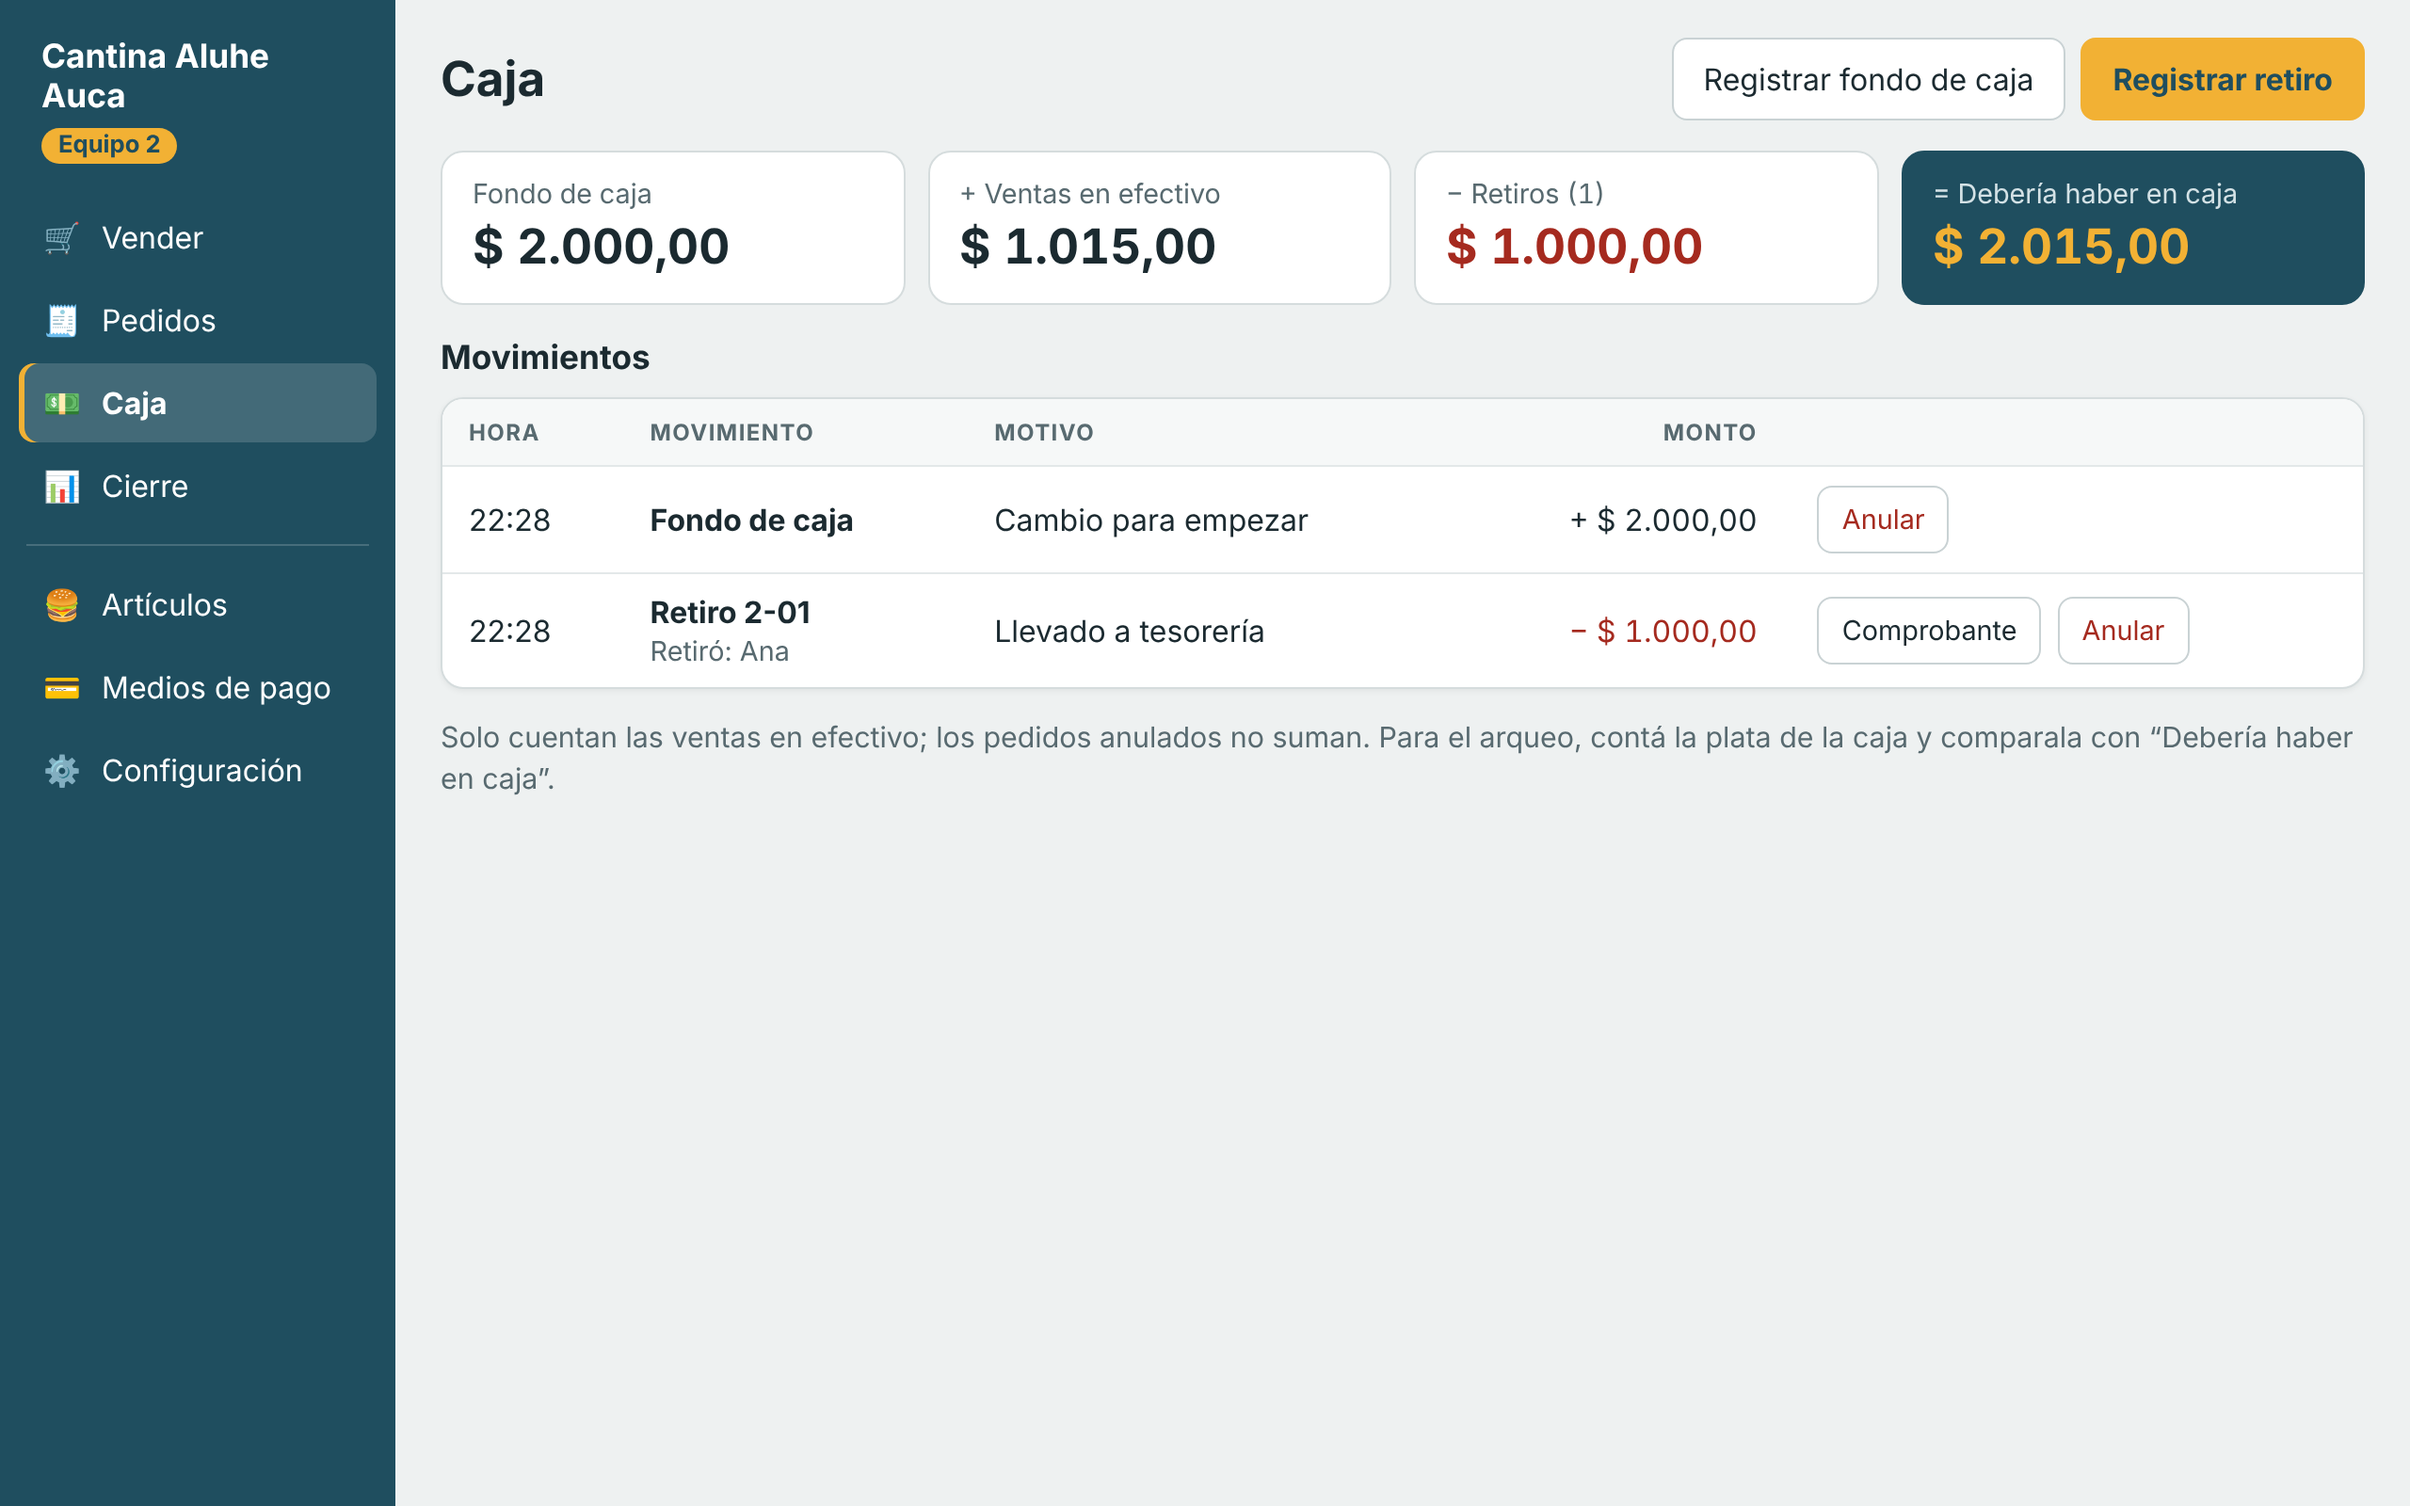
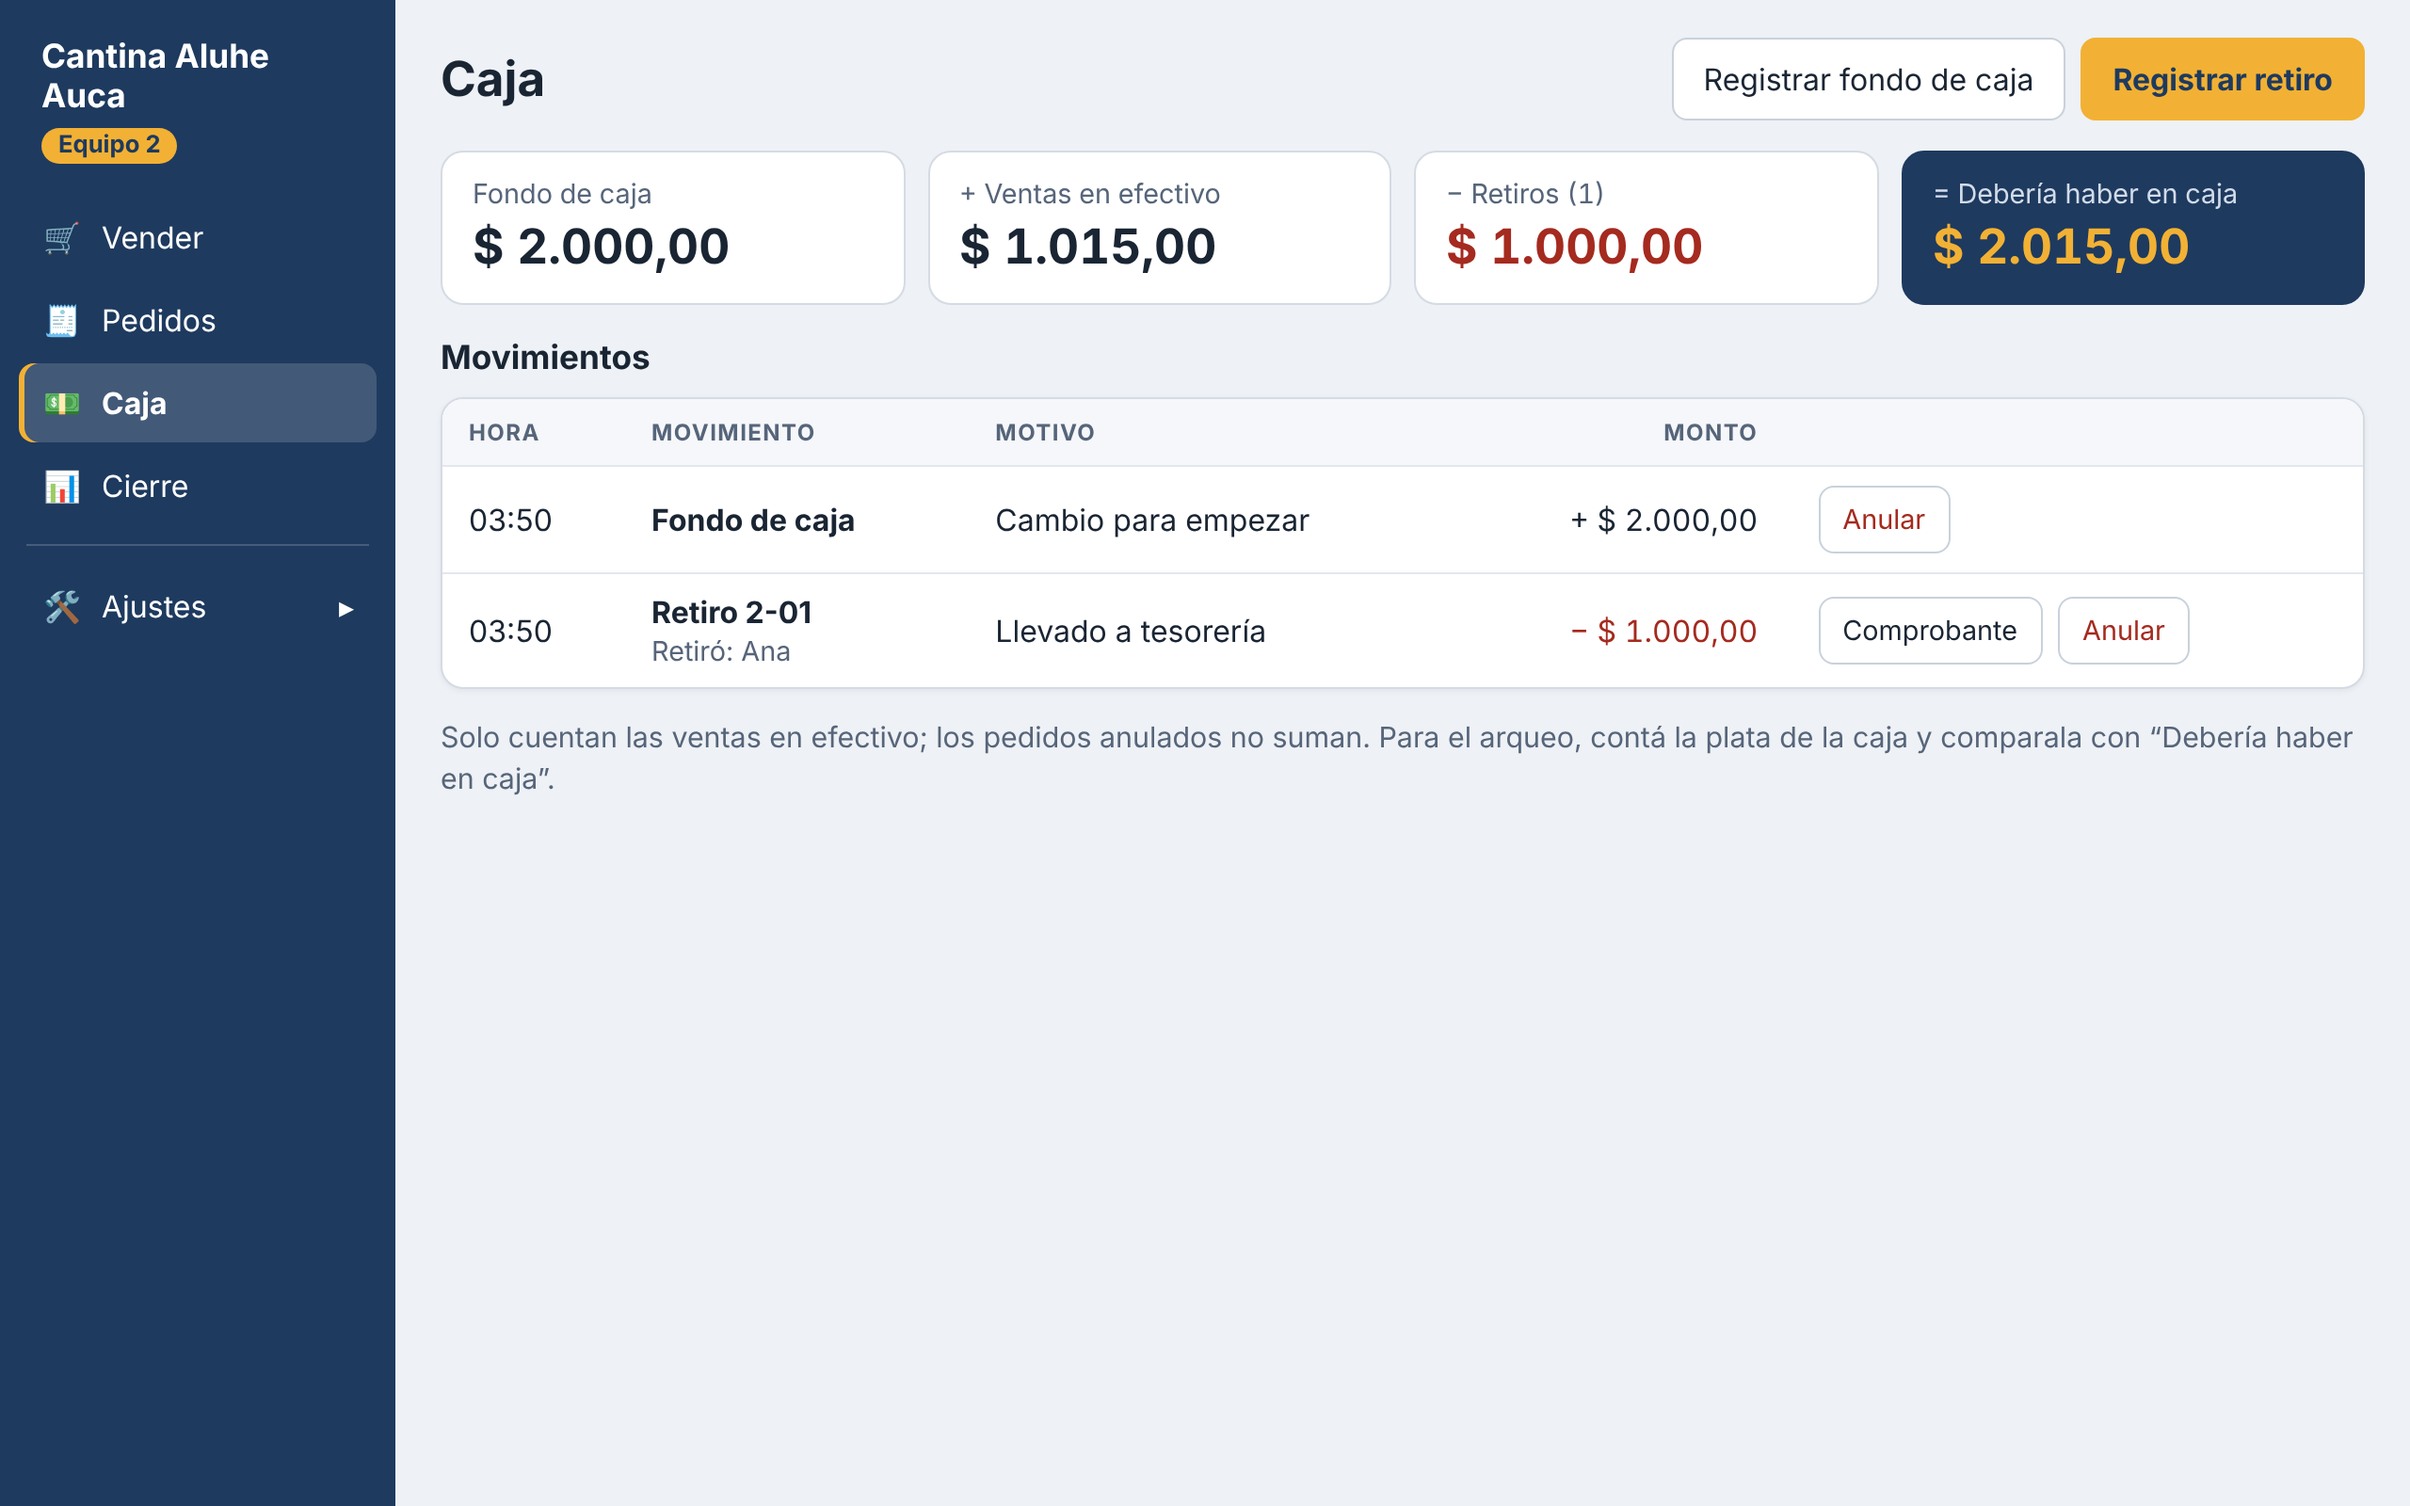
Menú de ajustes desplegable y color azul marino
- Artículos, Medios de pago y Configuración pasan a un desplegable "Ajustes"
  en el menú; se abre solo si se está en uno de ellos o falta configurar.
- El azul petróleo pasa a azul marino apenas más claro (#1e3a5f), con los
  grises ajustados al nuevo tono.
- Capturas de docs/ regeneradas; esquema y README con la pestaña
  Exportaciones en diseño.

Claude-Session: https://claude.ai/code/session_01EDYfUY5TWbhxzJ8hoEjXV3

diff --git a/css/estilos.css b/css/estilos.css
@@ -2,12 +2,12 @@
    Botones grandes para usar con el dedo. Colores del Grupo Scout Aluhe Auca. */
 
 :root {
-	--fondo: #eef1f1;
+	--fondo: #eef1f5;
 	--superficie: #ffffff;
-	--texto: #1b2a30;
-	--suave: #586a70;
-	--borde: #d5dcdd;
-	--marca: #1f4e5f;          /* azul petróleo del grupo */
+	--texto: #1a2533;
+	--suave: #56657a;
+	--borde: #d5dbe4;
+	--marca: #1e3a5f;          /* azul marino del grupo, apenas más claro */
 	--marca-texto: #ffffff;
 	--acento: #f2b134;         /* amarillo del grupo */
 	--acento-suave: #fff6df;
@@ -90,6 +90,25 @@ body { display: flex; flex-direction: column; overflow: hidden; }
 .menu .icono { width: 22px; text-align: center; }
 .menu hr { border: 0; border-top: 1px solid rgba(255, 255, 255, .18); margin: 8px 4px; }
 
+/* Desplegable de Ajustes (artículos, medios de pago, configuración) */
+.menu .ajustes summary {
+	display: flex;
+	align-items: center;
+	gap: 10px;
+	padding: 11px 12px;
+	border-radius: 8px;
+	cursor: pointer;
+	list-style: none;
+	min-height: 44px;
+}
+.menu .ajustes summary::-webkit-details-marker { display: none; }
+.menu .ajustes summary::after { content: "▸"; margin-left: auto; transition: transform .15s; }
+.menu .ajustes[open] summary::after { transform: rotate(90deg); }
+.menu .ajustes summary:hover { background: rgba(255, 255, 255, .08); }
+.menu .ajustes summary:focus-visible { outline: 3px solid var(--acento); outline-offset: 2px; }
+.menu .ajustes a { padding-left: 24px; font-size: .95rem; }
+@media (prefers-reduced-motion: reduce) { .menu .ajustes summary::after { transition: none; } }
+
 /* ----------------------------------------------------------- Contenido */
 
 .contenido { overflow-y: auto; padding: 20px 24px 40px; }
@@ -136,7 +155,7 @@ body { display: flex; flex-direction: column; overflow: hidden; }
 .ayuda { color: var(--suave); font-size: .95rem; line-height: 1.45; max-width: 1100px; }
 .sin-margen { margin: 0; }
 
-.lista { margin: 0; padding-left: 20px; display: grid; gap: 6px; color: #3b4d53; line-height: 1.4; }
+.lista { margin: 0; padding-left: 20px; display: grid; gap: 6px; color: #3a4a5e; line-height: 1.4; }
 
 /* ------------------------------------------------------------- Botones */
 
@@ -145,7 +164,7 @@ button {
 	min-height: 44px;
 	padding: 8px 16px;
 	border-radius: 8px;
-	border: 1px solid #c9d2d4;
+	border: 1px solid #c9d1dc;
 	background: var(--superficie);
 	color: var(--texto);
 	cursor: pointer;
@@ -208,7 +227,7 @@ input, select {
 	font: inherit;
 	min-height: 44px;
 	padding: 8px 12px;
-	border: 1px solid #c9d2d4;
+	border: 1px solid #c9d1dc;
 	border-radius: 8px;
 	background: #fff;
 	color: var(--texto);
@@ -220,13 +239,13 @@ input:focus, select:focus { outline: 2px solid var(--marca); outline-offset: 1px
 /* -------------------------------------------------------------- Tablas */
 
 .tabla { width: 100%; border-collapse: collapse; }
-.tabla th, .tabla td { padding: 10px 14px; text-align: left; border-bottom: 1px solid #e3e8e9; }
-.tabla th { font-size: .75rem; text-transform: uppercase; letter-spacing: .06em; color: var(--suave); background: #f6f8f8; }
+.tabla th, .tabla td { padding: 10px 14px; text-align: left; border-bottom: 1px solid #e3e7ee; }
+.tabla th { font-size: .75rem; text-transform: uppercase; letter-spacing: .06em; color: var(--suave); background: #f6f7fa; }
 .tabla tr:last-child td { border-bottom: 0; }
 .tabla .num { text-align: right; font-variant-numeric: tabular-nums; white-space: nowrap; }
 .tabla .negativo { color: var(--peligro); }
-.tabla .fila-grupo td { background: #f2f5f5; font-weight: 700; color: var(--marca); padding-top: 8px; padding-bottom: 8px; }
-.tabla tr.inactivo td:not(.botones-fila) { color: #7a8a8f; }
+.tabla .fila-grupo td { background: #f1f4f8; font-weight: 700; color: var(--marca); padding-top: 8px; padding-bottom: 8px; }
+.tabla tr.inactivo td:not(.botones-fila) { color: #7a8799; }
 .botones-fila { text-align: right; white-space: nowrap; }
 .botones-fila button { min-height: 36px; padding: 4px 12px; margin-left: 4px; font-size: .9rem; }
 
@@ -235,7 +254,7 @@ input:focus, select:focus { outline: 2px solid var(--marca); outline-offset: 1px
 	font-size: .75rem;
 	padding: 1px 8px;
 	border-radius: 99px;
-	background: #e3e8e9;
+	background: #e3e7ee;
 	color: var(--suave);
 	font-weight: 700;
 	vertical-align: middle;
@@ -331,7 +350,7 @@ button.articulo {
 	touch-action: manipulation;
 }
 button.articulo b { font-size: 1.05rem; line-height: 1.2; padding-right: 28px; }
-button.articulo span { color: #3b4d53; }
+button.articulo span { color: #3a4a5e; }
 button.articulo:active { transform: scale(.98); }
 button.articulo.en-pedido { border: 2px solid var(--acento); background: var(--acento-suave); }
 .contador {
@@ -365,7 +384,7 @@ button.articulo.en-pedido { border: 2px solid var(--acento); background: var(--a
 .numero { color: var(--texto); font-variant-numeric: tabular-nums; }
 
 .lineas { flex: 1; overflow-y: auto; min-height: 0; }
-.linea { border-bottom: 1px solid #e3e8e9; padding: 10px 0; display: flex; flex-direction: column; gap: 8px; }
+.linea { border-bottom: 1px solid #e3e7ee; padding: 10px 0; display: flex; flex-direction: column; gap: 8px; }
 .linea-arriba { display: flex; justify-content: space-between; gap: 8px; }
 .monto { font-variant-numeric: tabular-nums; white-space: nowrap; }
 .linea-controles { display: flex; align-items: center; gap: 8px; flex-wrap: wrap; }
@@ -391,7 +410,7 @@ button.cobrar { flex: 2; min-height: 60px; font-size: 1.25rem; }
 button.medio { min-height: 64px; text-align: left; display: flex; flex-direction: column; gap: 2px; font-weight: 700; font-size: 1.05rem; border-radius: 10px; }
 button.medio span { font-weight: 400; font-size: .8rem; color: var(--suave); }
 button.medio.elegido { background: var(--marca); border-color: var(--marca); color: #fff; }
-button.medio.elegido span { color: #d4e2e6; }
+button.medio.elegido span { color: #d3dcea; }
 .zona-efectivo { display: grid; grid-template-columns: 1fr 1fr; gap: 14px 16px; align-items: end; margin-top: 18px; }
 .zona-efectivo input { font-size: 1.5rem; min-height: 52px; border: 2px solid var(--marca); font-variant-numeric: tabular-nums; }
 .vuelto { background: #e6f2e7; border-radius: 10px; padding: 10px 16px; display: flex; flex-direction: column; }
@@ -424,7 +443,7 @@ button.medio.elegido span { color: #d4e2e6; }
 	line-height: 1.5;
 	color: #111;
 	box-shadow: 0 2px 10px rgba(0, 0, 0, .14);
-	border: 1px solid #e3e8e9;
+	border: 1px solid #e3e7ee;
 }
 .papel .fila { display: flex; justify-content: space-between; gap: 10px; }
 .papel .negrita { font-weight: 700; }
@@ -442,7 +461,7 @@ button.medio.elegido span { color: #d4e2e6; }
 
 /* -------------------------------------------------------------- Pedidos */
 
-.tabla tr.anulado td { color: #7a8a8f; }
+.tabla tr.anulado td { color: #7a8799; }
 .tabla tr.anulado .tachable { text-decoration: line-through; }
 .etiqueta.anulado { background: #f7e1df; color: #8c2219; margin-left: 6px; }
 
@@ -461,7 +480,7 @@ button.medio.elegido span { color: #d4e2e6; }
 .indicador b.negativo { color: var(--peligro); }
 .indicador small { font-size: .8rem; color: var(--suave); }
 .indicador.destacado { background: var(--marca); border-color: var(--marca); color: #fff; }
-.indicador.destacado span, .indicador.destacado small { color: #d4e2e6; }
+.indicador.destacado span, .indicador.destacado small { color: #d3dcea; }
 .indicador.destacado b { color: var(--acento); }
 
 .tabla tfoot td { font-weight: 700; border-top: 2px solid var(--texto); border-bottom: 0; }
@@ -473,7 +492,9 @@ button.medio.elegido span { color: #d4e2e6; }
 
 @media (max-width: 860px) {
 	.app { grid-template-columns: 64px 1fr; }
-	.marca, .menu a span:not(.icono) { display: none; }
+	.marca, .menu a span:not(.icono), .menu summary span:not(.icono), .menu .ajustes summary::after { display: none; }
+	.menu .ajustes summary { justify-content: center; padding: 14px 0; }
+	.menu .ajustes a { padding-left: 0; }
 	.menu a { justify-content: center; padding: 14px 0; }
 	.contenido { padding: 16px; }
 	.dos-columnas { grid-template-columns: 1fr; }

diff --git a/js/app.js b/js/app.js
@@ -15,8 +15,9 @@ const PANTALLAS = {
 	configuracion: PantallaConfiguracion,
 };
 
-/** Separador visual en el menú entre "trabajo diario" y "ajustes" */
-const MENU = ['vender', 'pedidos', 'caja', 'cierre', '-', 'articulos', 'medios', 'configuracion'];
+/** Menú: el trabajo diario siempre a la vista; los ajustes, dentro de un desplegable */
+const MENU_DIARIO = ['vender', 'pedidos', 'caja', 'cierre'];
+const MENU_AJUSTES = ['articulos', 'medios', 'configuracion'];
 
 const App = {
 
@@ -56,19 +57,26 @@ const App = {
 	async dibujarMenu(actual, configurado) {
 		const cfg = await Datos.configuracion();
 		const menu = document.getElementById('menu');
-		const items = MENU.map(clave => {
-			if (clave === '-') return '<hr>';
+		const enlace = clave => {
 			const p = PANTALLAS[clave];
 			const clase = (clave === actual ? 'activo' : '') + (!configurado && clave !== 'configuracion' ? ' bloqueado' : '');
 			return `<a href="#${clave}" class="${clase}"><span class="icono">${p.icono}</span><span>${p.titulo}</span></a>`;
-		}).join('');
+		};
+
+		// Los ajustes quedan plegados, salvo que se esté en uno de ellos o falte configurar
+		const ajustesAbiertos = MENU_AJUSTES.includes(actual) || !configurado;
 
 		menu.innerHTML = `
 			<div class="marca">
 				<div class="marca-nombre">${Util.esc(cfg.nombreCantina || Datos.NOMBRE_POR_DEFECTO)}</div>
 				<div class="marca-equipo">${cfg.equipo ? 'Equipo ' + cfg.equipo + (cfg.prueba ? ' · prueba' : '') : 'Sin configurar'}</div>
 			</div>
-			${items}`;
+			${MENU_DIARIO.map(enlace).join('')}
+			<hr>
+			<details class="ajustes" ${ajustesAbiertos ? 'open' : ''}>
+				<summary><span class="icono">🛠</span><span>Ajustes</span></summary>
+				${MENU_AJUSTES.map(enlace).join('')}
+			</details>`;
 
 		// En los equipos de prueba, una franja amarilla arriba de todo
 		const franja = document.getElementById('franja-prueba');

diff --git a/index.html b/index.html
@@ -3,7 +3,7 @@
 <head>
 	<meta charset="utf-8">
 	<meta name="viewport" content="width=device-width, initial-scale=1">
-	<meta name="theme-color" content="#1f4e5f">
+	<meta name="theme-color" content="#1e3a5f">
 	<title>Cantina</title>
 	<link rel="manifest" href="manifest.webmanifest">
 	<link rel="icon" href="iconos/icono-192.png">

diff --git a/sw.js b/sw.js
@@ -6,7 +6,7 @@
  * Con conexión siempre usa los archivos nuevos. Si se agrega un archivo a la
  * app, sumarlo a ARCHIVOS y cambiar VERSION para que quede disponible sin internet.
  */
-const VERSION = 'cantina-v3';
+const VERSION = 'cantina-v4';
 
 const ARCHIVOS = [
 	'./',

diff --git a/docs/esquema.md b/docs/esquema.md
@@ -66,6 +66,8 @@ Elegir artículos → observaciones → cobrar (un medio de pago) → **ticket +
 - **Comanda:** una por pedido, sin sectores y sin estados.
 - **Sin** descuentos, promociones, control de stock ni fotos.
 - **Pantallas:** notebook y tablet en horizontal.
+- **Menú:** Vender, Pedidos, Caja y Cierre siempre a la vista; Artículos, Medios de pago y Configuración dentro del desplegable “Ajustes”.
+- **Colores:** azul marino del grupo (apenas más claro) y amarillo.
 
 ## Numeración de tickets
 
@@ -103,7 +105,7 @@ se comuniquen. Avisa cuando quedan pocos números.
 - **Consolidación:** juntar los cierres exportados de todos los equipos en un documento único.
 - **Comandas por sector** (cocina, barra), si hace falta.
 - **Formato de importación de artículos** (por ejemplo desde Excel o CSV).
-- **Otras exportaciones** (a definir cuáles y con qué columnas).
+- **Pestaña Exportaciones en el Cierre** (en diseño): Excel `.xlsx` con 3 pestañas (ventas por ticket, por medio de pago, por artículo), un desplegable con las tablas en CSV por separado, JSON para consolidar y filtros (horario, números de pedido, medio de pago, anulados).
 
 ## Etapas
 

diff --git a/README.md b/README.md
@@ -26,7 +26,7 @@ Es una PWA: funciona en Windows y Android, se instala desde el navegador y
 - Comandas divididas por sector (cocina, barra).
 - **Formato de importación de artículos** (por ejemplo desde Excel o CSV).
   Hoy "Importar carta" solo acepta el `.json` que genera "Exportar carta".
-- **Otras exportaciones** (a definir cuáles y con qué columnas).
+- **Pestaña Exportaciones en el Cierre** (en diseño): Excel con 3 pestañas, tablas CSV por separado, JSON y filtros.
 
 ## Probarla en esta PC
 
